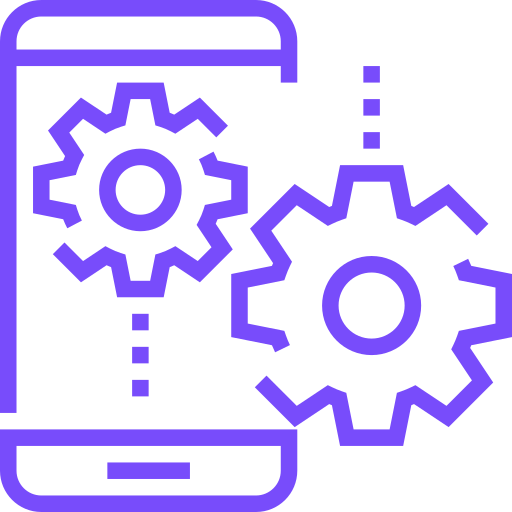
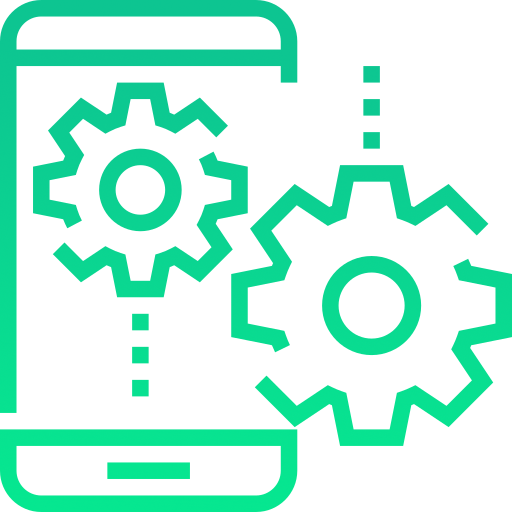
firebase

Changed region(s): [[0.0, 0.0, 1.0, 1.0], [0.625, 0.5, 0.8438, 0.7188]]

diff --git a/src/app/componentes/inicio/inicio.component.html b/src/app/componentes/inicio/inicio.component.html
@@ -28,7 +28,6 @@
         <img src="../../../assets/img_inicio/shapes/wave.png" class="shape wave wave1" alt="" />
         <img src="../../../assets/img_inicio/shapes/wave.png" class="shape wave wave2" alt="" />
         <img src="../../../assets/img_inicio/shapes/triangle.png" class="shape triangle" alt="" />
-        <img src="../../../assets/img_inicio/shapes/letters.png" class="letters" alt="" />
         <img src="../../../assets/img_inicio/shapes/points1.png" class="points points1" alt="" />
       </div>
 
@@ -72,7 +71,7 @@
           <div class="column-1">
             <h1 class="header-title">GerAdvance</h1>
             <p class="text">
-              Un sistema sencillo e intuitivo para la gestión 
+              Una aplicación web sencilla e intuitiva, para la gestión 
               integral de hogares para la Tercera Edad que permite 
               optimizar el tiempo de sus procesos administrativos 
               mejorando la atención de los residentes del geriátrico y de sus familiares.
@@ -97,7 +96,7 @@
         <div class="section-header">
           <h3 class="title" data-title="¿Que realizamos?">Servicios</h3>
           <p class="text">
-            A continuación te presentamos, algunos de los servicios que integran GerAdvance OS.
+            A continuación te presentamos, algunos de los servicios que integran OS GerAdvance.
           </p>
         </div>
 
@@ -113,10 +112,9 @@
                 <img src="../../../assets/img_inicio/design-icon.png" class="icon" alt="" />
                 <h3 class="title-sm">Actividades</h3>
                 <p class="text">
-                  Lorem ipsum dolor sit amet consectetur adipisicing elit. Nam
-                  est suscipit itaque?
+                  Los residentes del centro geriátrico podrán generar citas para su control de salud.
                 </p>
-                <a href="#" class="btn small">Read more</a>
+                <a href="#" class="btn small">Próximamente</a>
               </div>
             </div>
           </div>
@@ -125,12 +123,11 @@
             <div class="card" data-card="Code">
               <div class="card-content z-index">
                 <img src="../../../assets/img_inicio/code-icon.png" class="icon" alt="" />
-                <h3 class="title-sm">Medicina</h3>
+                <h3 class="title-sm">Accesibilidad</h3>
                 <p class="text">
-                  Lorem ipsum dolor sit amet consectetur adipisicing elit.
-                  Dolores suscipit nobis dolore?
+                  OS GerAdvance es adaptable para cualquier discapacidad presente en sus usuarios.
                 </p>
-                <a href="#" class="btn small">Read more</a>
+                <a href="#" class="btn small">Próximamente</a>
               </div>
             </div>
           </div>
@@ -144,12 +141,11 @@
             <div class="card" data-card="App">
               <div class="card-content z-index">
                 <img src="../../../assets/img_inicio/app-icon.png" class="icon" alt="" />
-                <h3 class="title-sm">Conformidad</h3>
+                <h3 class="title-sm">Seguridad</h3>
                 <p class="text">
-                  Lorem ipsum dolor sit amet consectetur adipisicing elit.
-                  Voluptatum hic veniam nihil.
+                  Los datos de los usuarios registrados, se almacenan con total seguridad.
                 </p>
-                <a href="#" class="btn small">Read more</a>
+                <a href="#" class="btn small">Próximamente</a>
               </div>
             </div>
           </div>
@@ -381,8 +377,8 @@
       <div class="bottom-footer">
         <div class="copyright">
           <p class="text">
-            Copyright&copy;2020 All rights reserved | Made by
-            <span>True Coder</span>
+            Copyright&copy;2023 All rights reserved | Made by
+            <span>Kevin & Sebastián </span>
           </p>
         </div>
 

diff --git a/src/app/componentes/registro/registro.component.css b/src/app/componentes/registro/registro.component.css
@@ -128,13 +128,13 @@ form.sign-in-form {
 }
 
 .social-icon:hover {
-  color: #4481eb;
-  border-color: #4481eb;
+  color: #0dc591;
+  border-color: #0dc591;
 }
 
 .btn {
   width: 150px;
-  background-color: #5995fd;
+  background-color: #0dc591;
   border: none;
   outline: none;
   height: 49px;
@@ -148,7 +148,7 @@ form.sign-in-form {
 }
 
 .btn:hover {
-  background-color: #4d84e2;
+  background-color: #0dc591;
 }
 .panels-container {
   position: absolute;
@@ -168,7 +168,7 @@ form.sign-in-form {
   top: -10%;
   right: 48%;
   transform: translateY(-50%);
-  background-image: linear-gradient(-45deg, #4481eb 0%, #04befe 100%);
+  background-image: linear-gradient(-45deg, #0dc591 0%, #04befe 100%);
   transition: 1.8s ease-in-out;
   border-radius: 50%;
   z-index: 6;

diff --git a/src/index.html b/src/index.html
@@ -2,7 +2,7 @@
 <html lang="en">
 <head>
   <meta charset="utf-8">
-  <title>GeriatricClinic</title>
+  <title>OS | GerAdvance</title>
   <base href="/">
   <meta name="viewport" content="width=device-width, initial-scale=1">
   <link rel="icon" type="image/x-icon" href="favicon.ico">

diff --git a/src/app/componentes/inicio/inicio.component.css b/src/app/componentes/inicio/inicio.component.css
@@ -206,7 +206,7 @@ img {
 }
 
 .btn:hover {
-  background-color: #6b44e0;
+  background-color: #0dc591;
 }
 
 .btn.small {
@@ -239,7 +239,7 @@ nav .container {
 }
 
 .logo {
-  width: 80px;
+  width: 175px;
   display: flex;
   align-items: center;
 }
